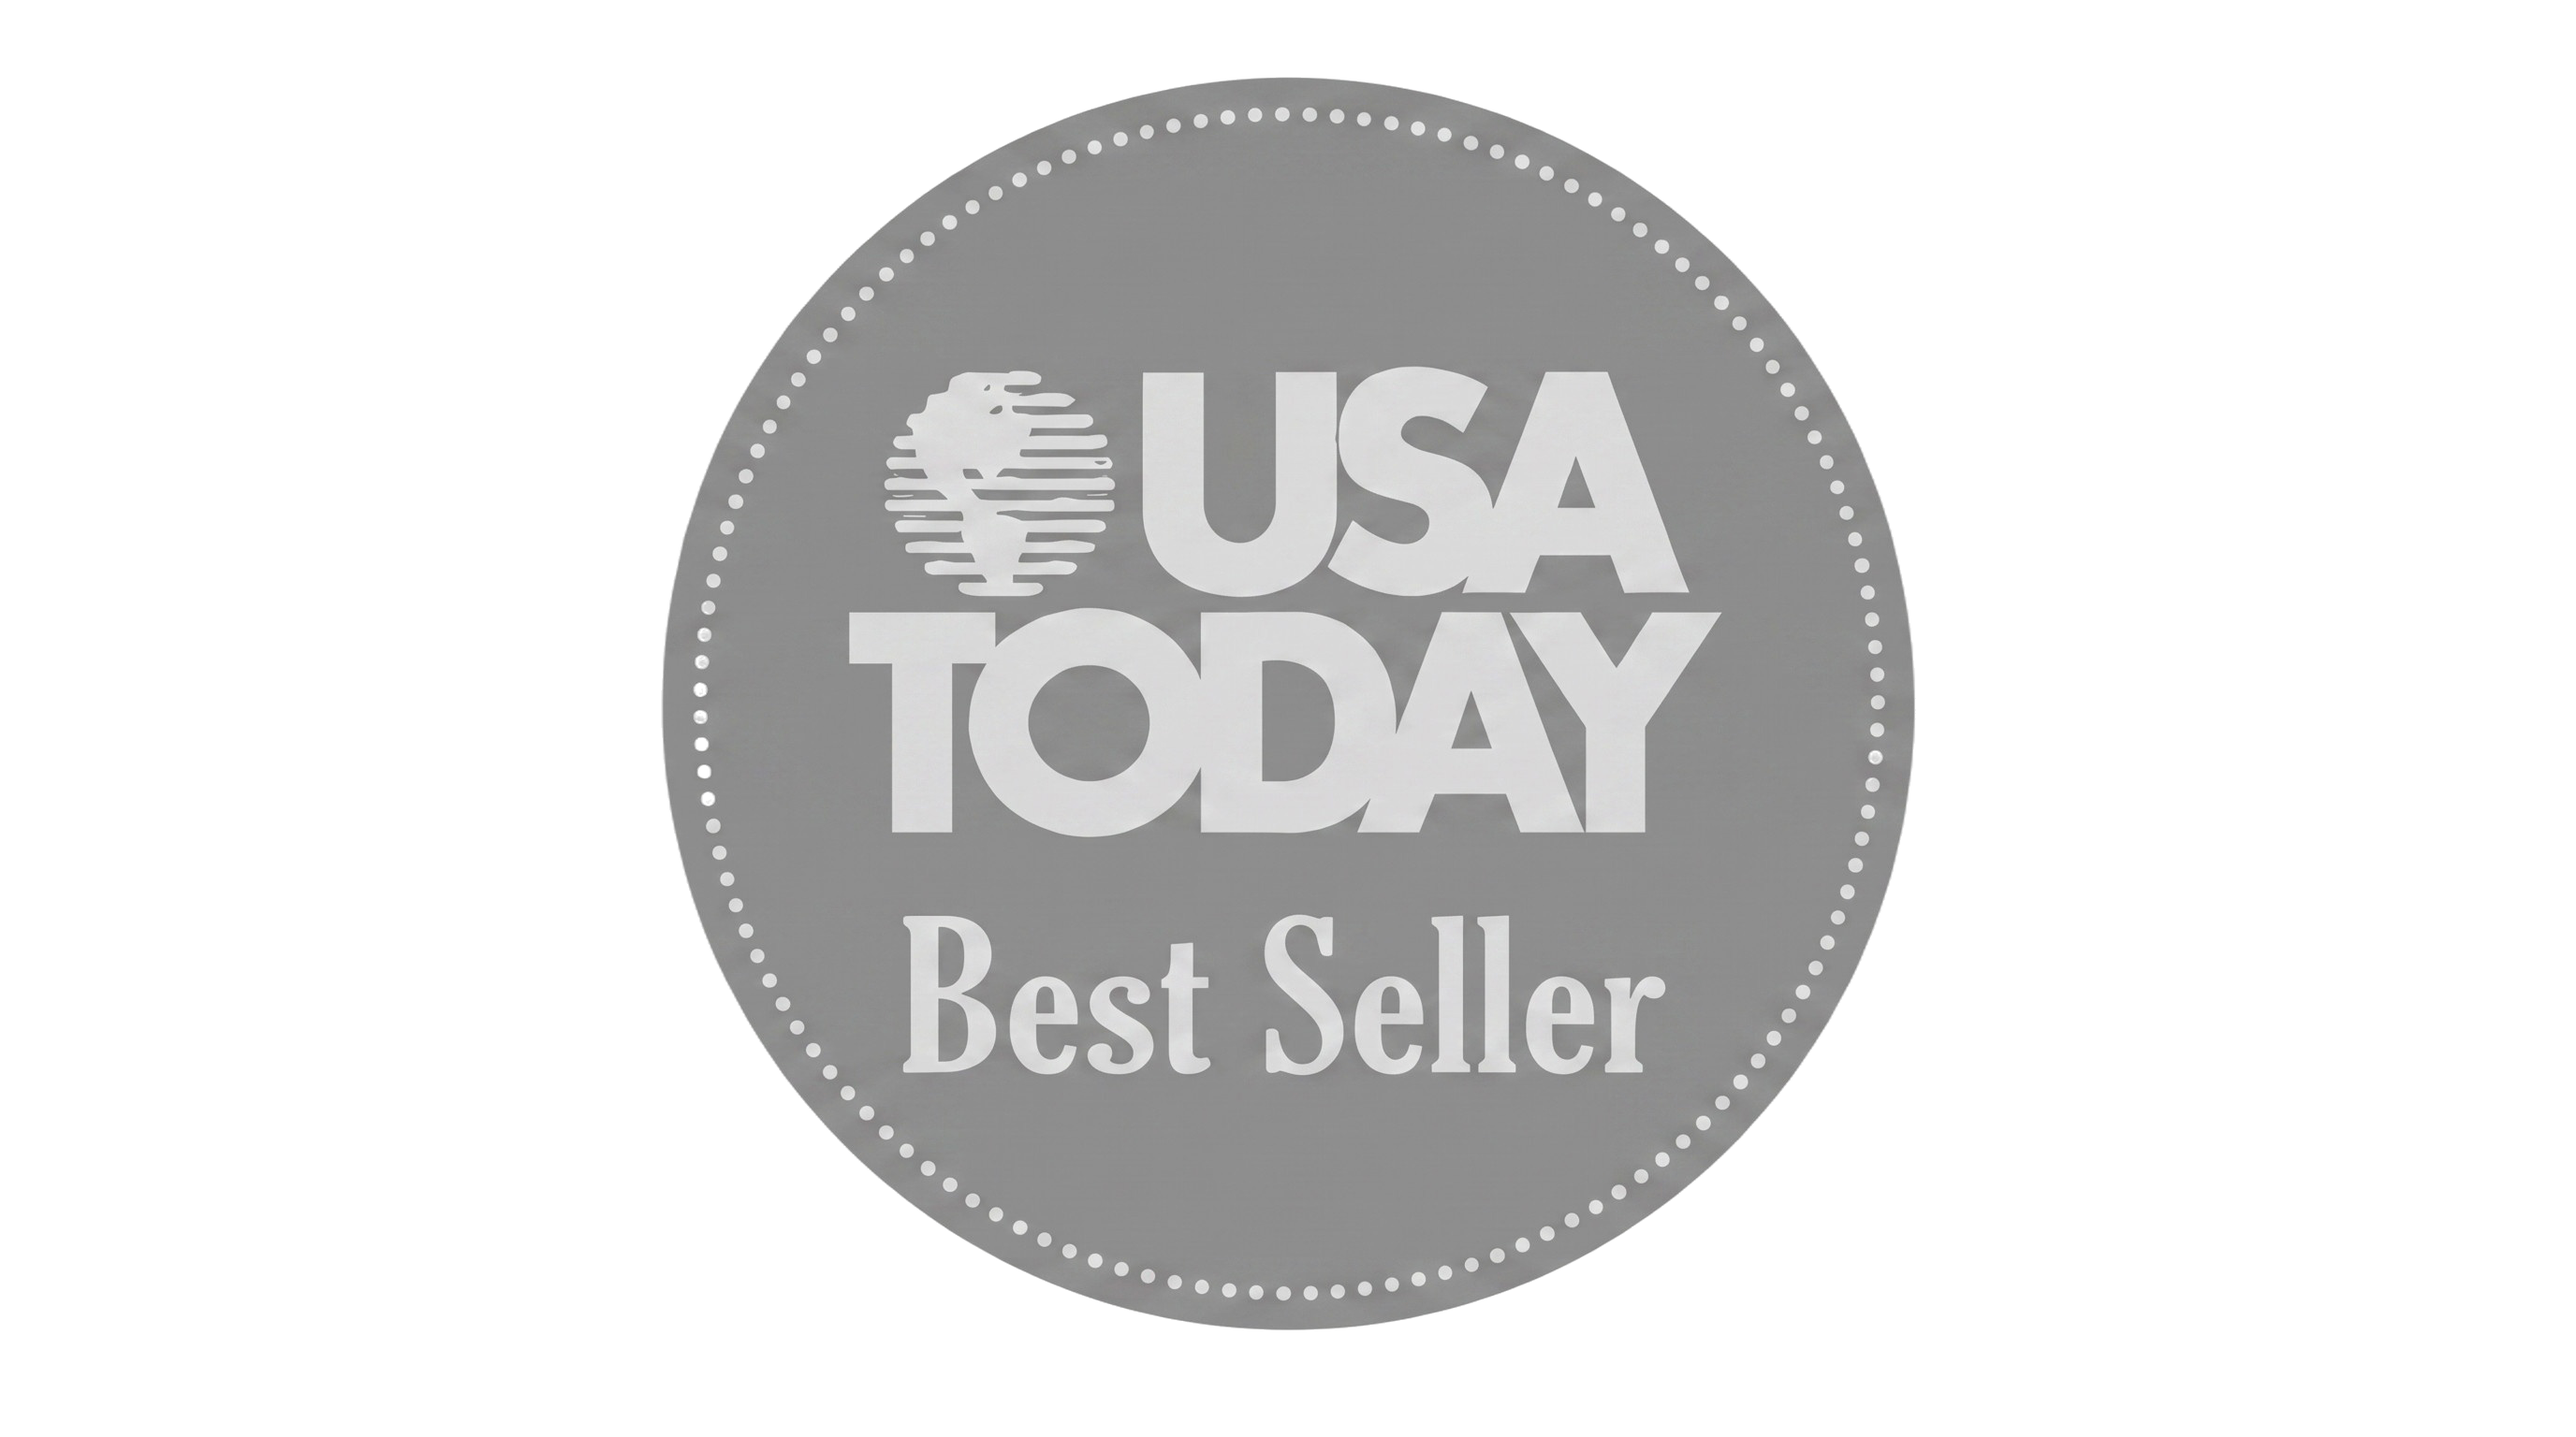
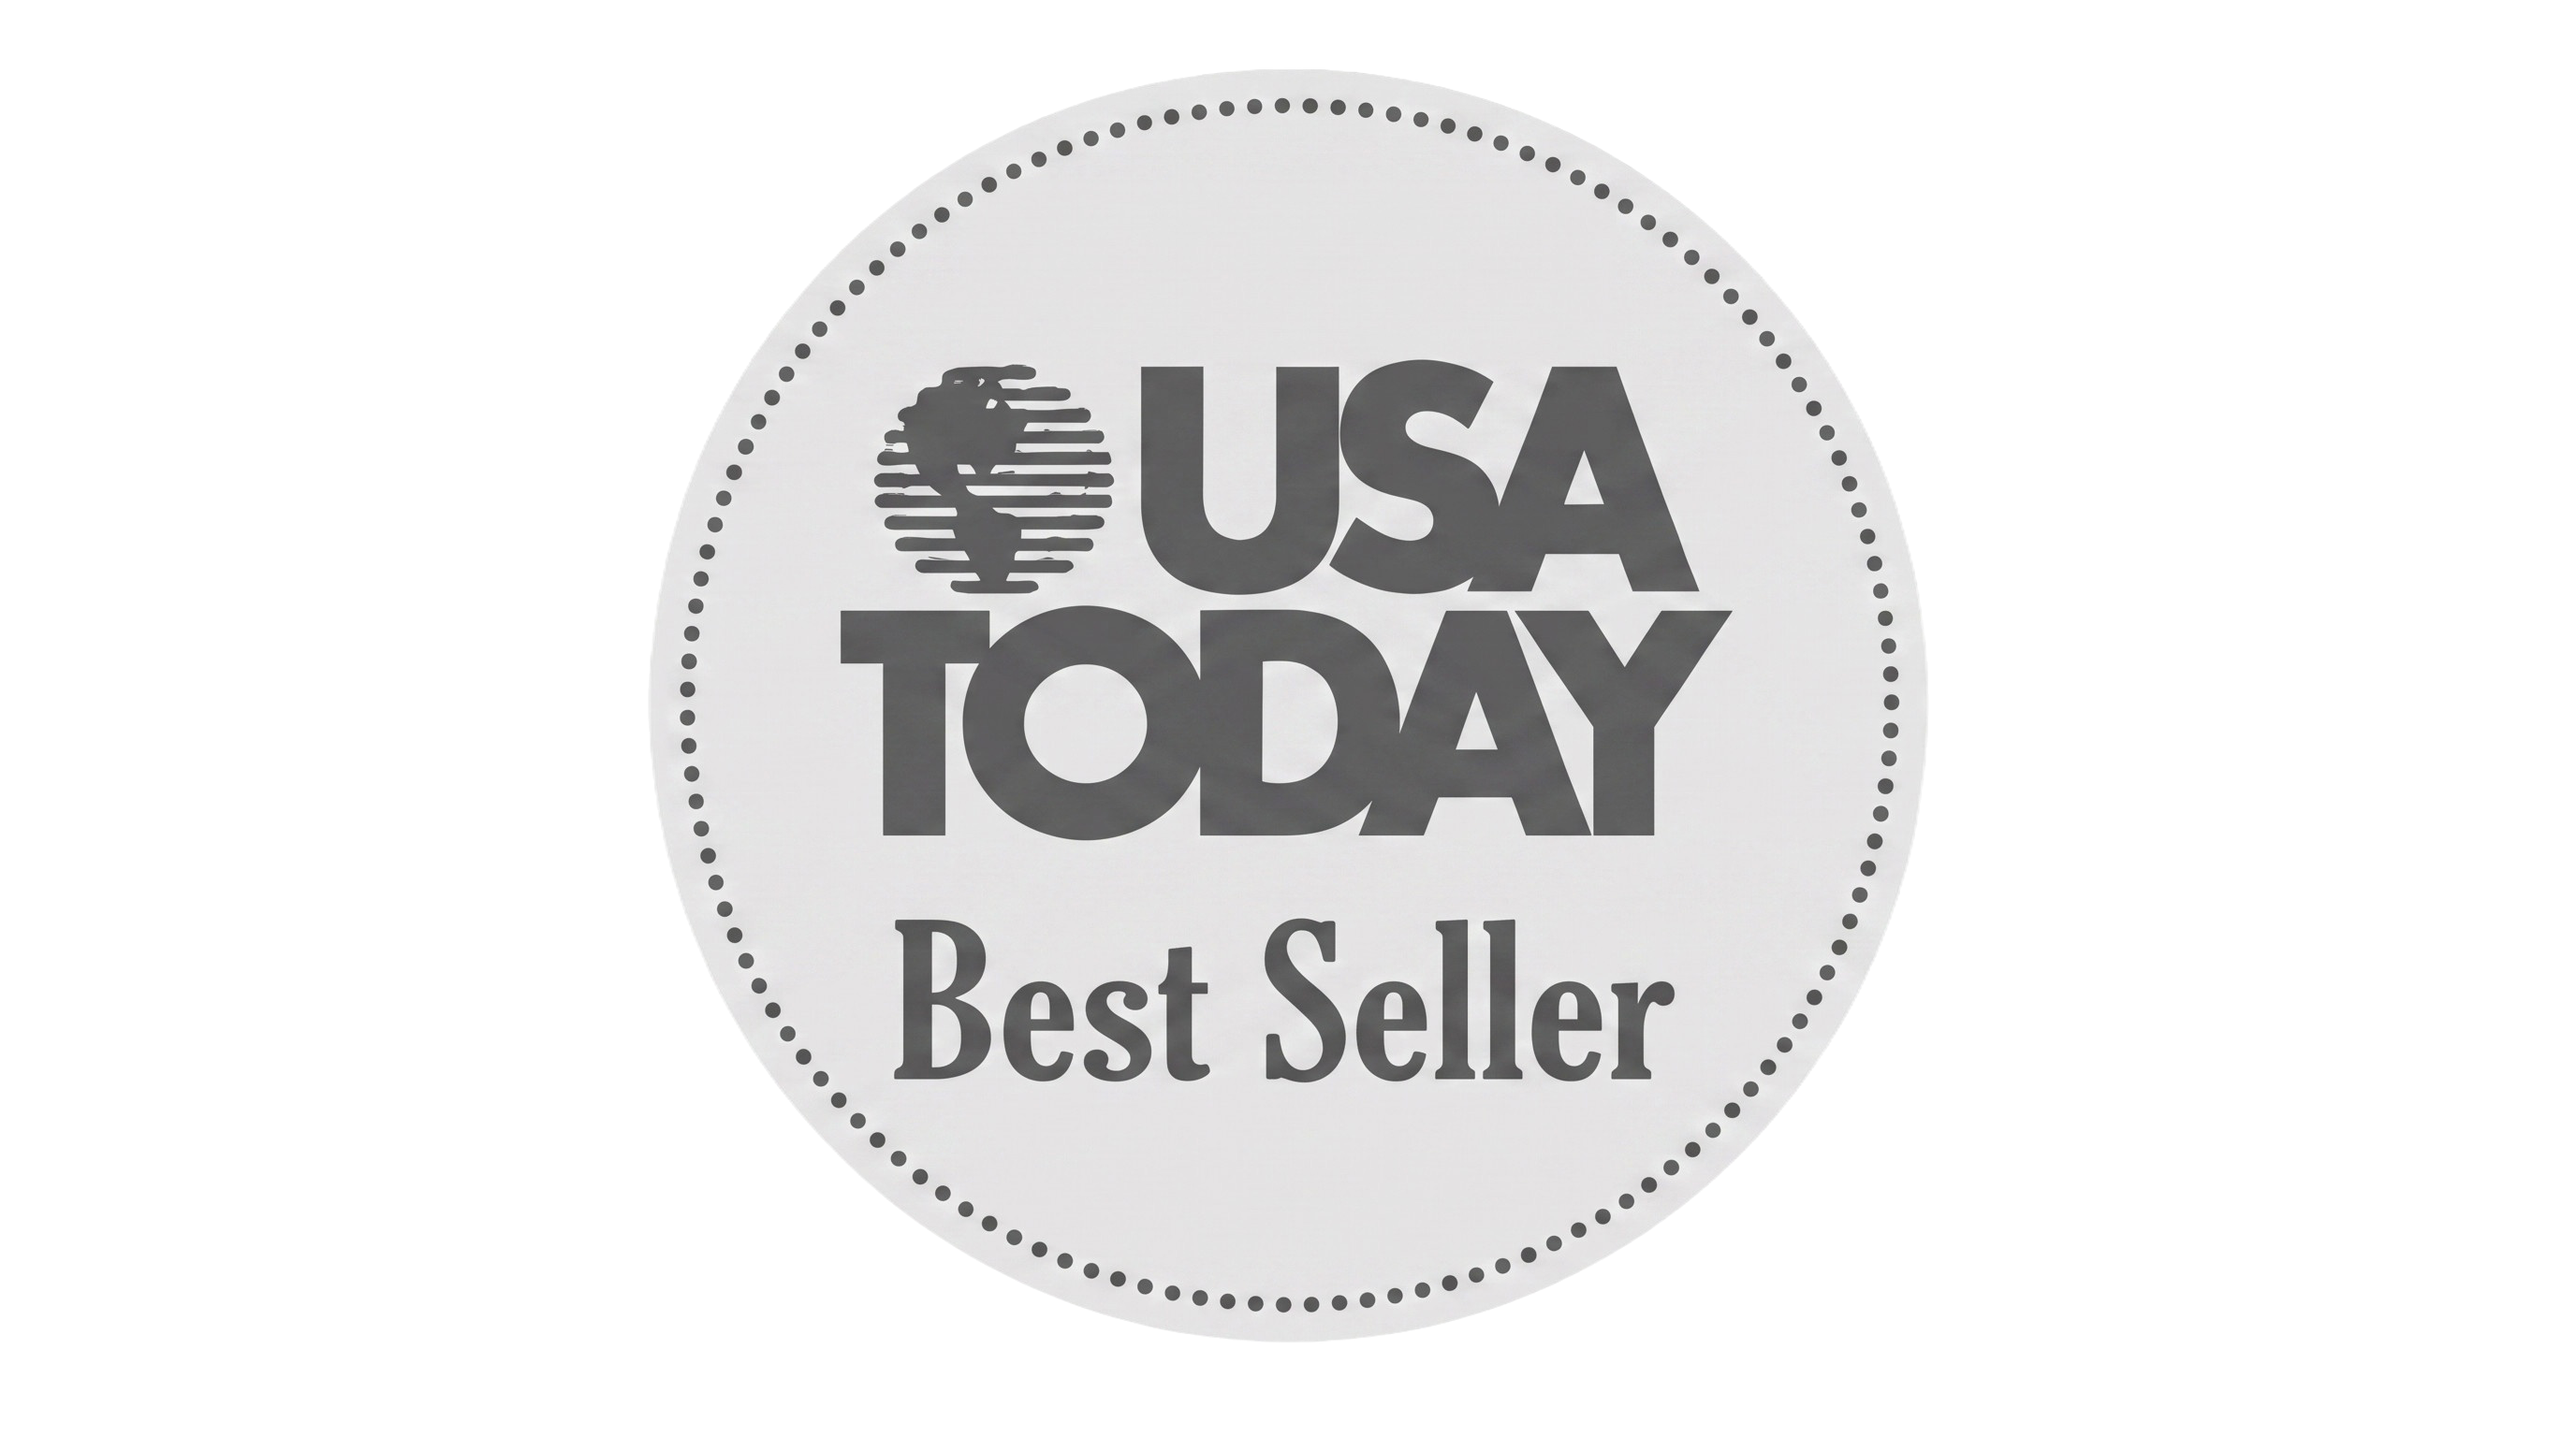
Update WSJ + USA Today badges, fix invert treatment for black-bg USA Today, wider gap

diff --git a/home.html b/home.html
@@ -714,7 +714,7 @@
   .ribbon.light .ribbon-label { color: var(--grey-soft); }
   .ribbon.light .marquee-item { color: var(--muted); }
   /* Bestseller ribbon: own gap and scroll speed (fewer, larger items than media ribbon) */
-  .ribbon.light .marquee-track { gap: 200px; padding-left: 200px; animation-duration: 36s; }
+  .ribbon.light .marquee-track { gap: 400px; padding-left: 400px; animation-duration: 44s; }
   /* Badge treatment: white bg × bone = invisible; grey/dark content remains */
   .bestseller-badge {
     height: 104px;
@@ -726,6 +726,8 @@
   }
   /* NYT badge is square — needs more height to read at the same visual size */
   .bestseller-badge--nyt { height: 152px; }
+  /* Black-background badges: invert so black → white, then multiply eliminates it */
+  .bestseller-badge--invert { filter: grayscale(1) invert(1) contrast(0.6) brightness(1.1); }
 
   @media (max-width: 720px) {
     .ribbon.light .marquee-track { gap: 56px; padding-left: 56px; }
@@ -1278,12 +1280,12 @@
       <span class="marquee-item"><img src="nyt-bestseller.png" alt="New York Times Bestseller" class="bestseller-badge bestseller-badge--nyt"></span>
       <span class="marquee-item"><img src="BnN_bestseller.png" alt="Barnes & Noble Bestseller" class="bestseller-badge"></span>
       <span class="marquee-item"><img src="wsj-bestseller.png" alt="Wall Street Journal Bestseller" class="bestseller-badge"></span>
-      <span class="marquee-item"><img src="usatoday-bestseller.png" alt="USA Today Bestseller" class="bestseller-badge"></span>
+      <span class="marquee-item"><img src="usatoday-bestseller.png" alt="USA Today Bestseller" class="bestseller-badge bestseller-badge--invert"></span>
       <span class="marquee-item"><img src="amazon-bestseller.png" alt="Amazon – 21,177 Five-Star Reviews" class="bestseller-badge"></span>
       <span class="marquee-item"><img src="nyt-bestseller.png" alt="New York Times Bestseller" class="bestseller-badge bestseller-badge--nyt"></span>
       <span class="marquee-item"><img src="BnN_bestseller.png" alt="Barnes & Noble Bestseller" class="bestseller-badge"></span>
       <span class="marquee-item"><img src="wsj-bestseller.png" alt="Wall Street Journal Bestseller" class="bestseller-badge"></span>
-      <span class="marquee-item"><img src="usatoday-bestseller.png" alt="USA Today Bestseller" class="bestseller-badge"></span>
+      <span class="marquee-item"><img src="usatoday-bestseller.png" alt="USA Today Bestseller" class="bestseller-badge bestseller-badge--invert"></span>
     </div>
   </div>
 </div>
